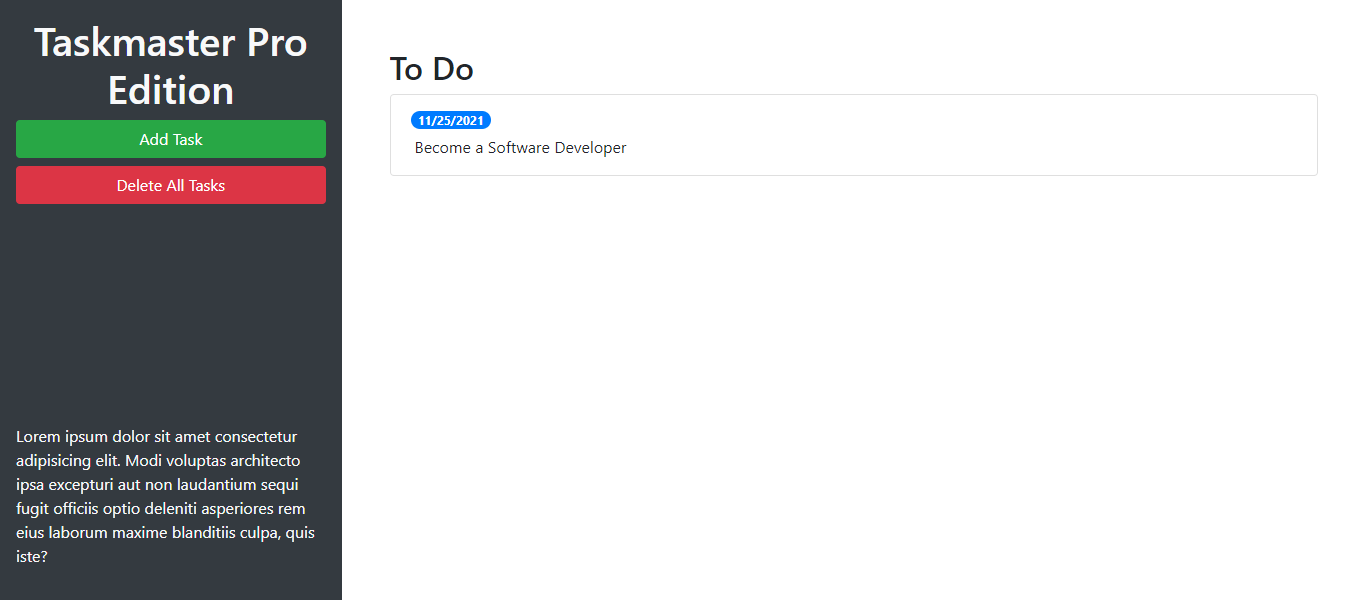
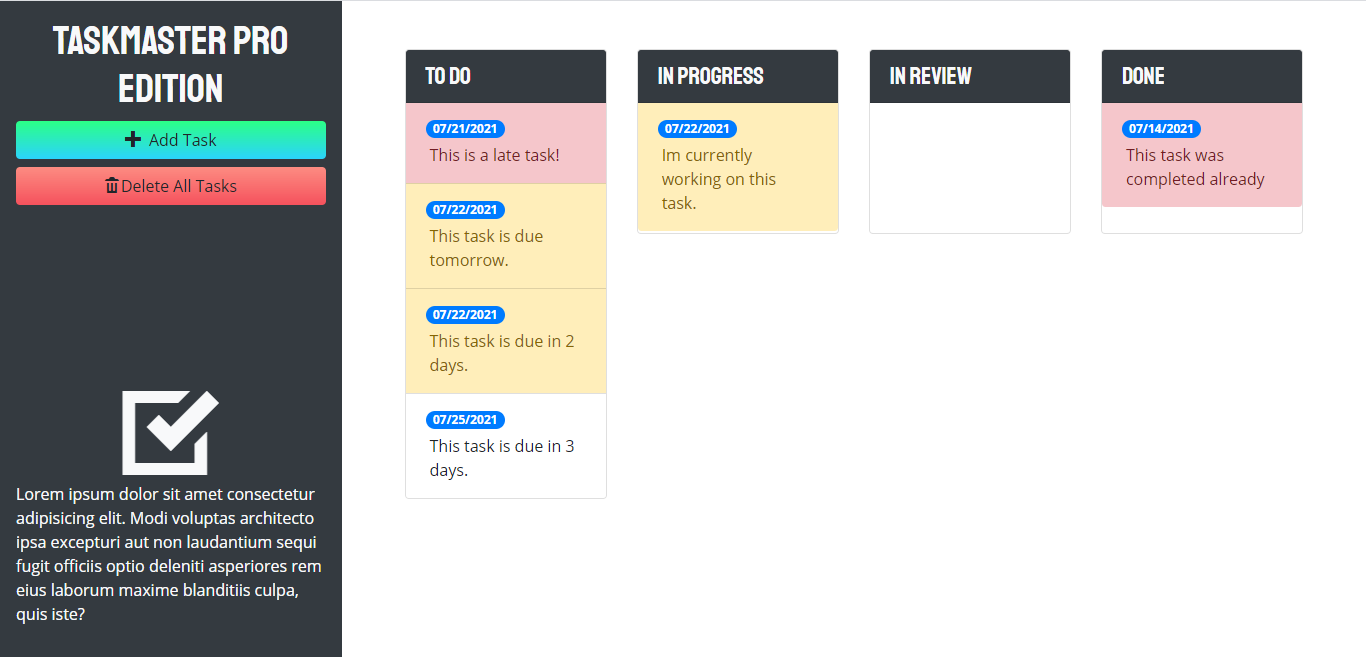
updated ReadMe

diff --git a/README.md b/README.md
@@ -3,10 +3,10 @@
 # Taskmaster Pro Edition :pencil:
 
 ## :label: Description
-A more sophisticated program for a person to keep track of their tasks.
+A very friendly and interactive program for a user to organize their tasks by date and keep track of their deadlines.
 
 ## :scroll: Instructions
-Add tasks, edit tasks, delete tasks.
+Add tasks, edit tasks, drag the tasks through the different columns and status, and delete tasks.
 
 ## 	:hash: Built With
 :heavy_check_mark: HTML</br>
@@ -20,6 +20,7 @@ Link to Website: https://padredilg.github.io/taskmaster-pro/
 </br></br>
 Screenshot from Website:
 ![screenshot of website](./assets/images/taskmaster-website-ss.png)
+![screenshot of website](./assets/images/taskmaster-website-ss2.png)
 
 ## :clap: Credits
 
